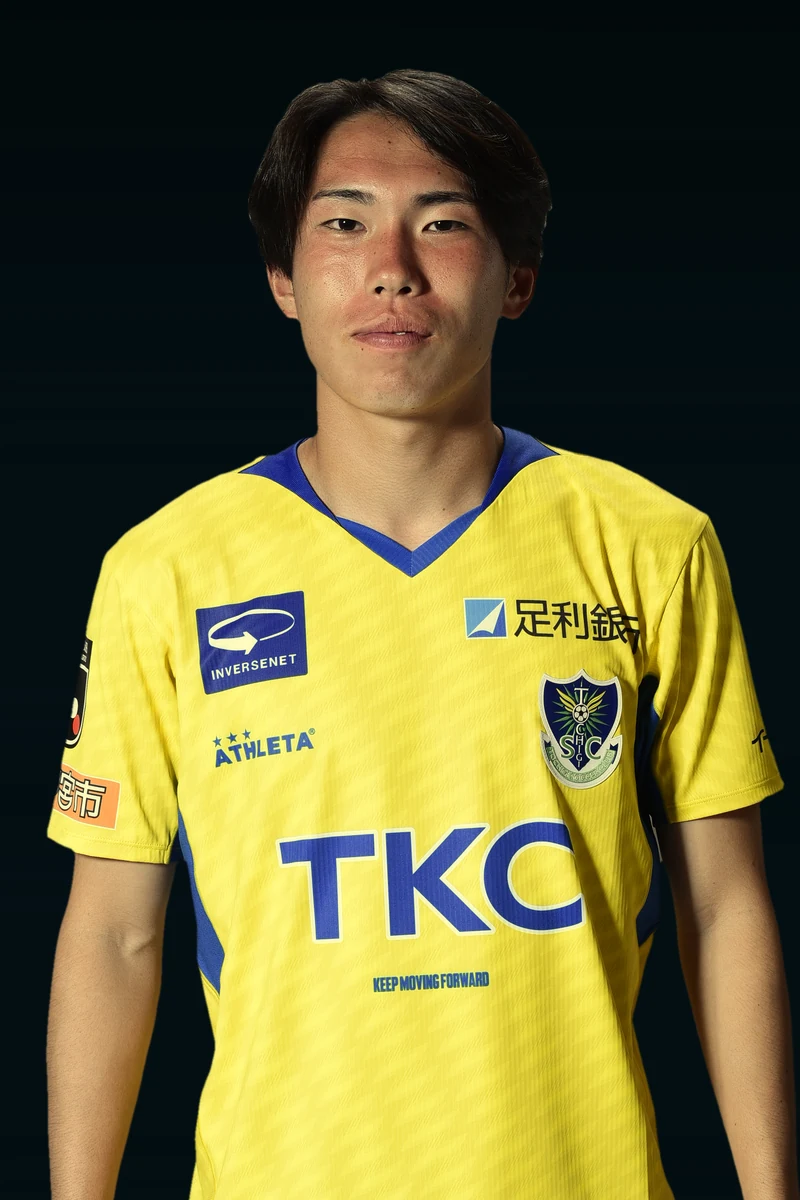
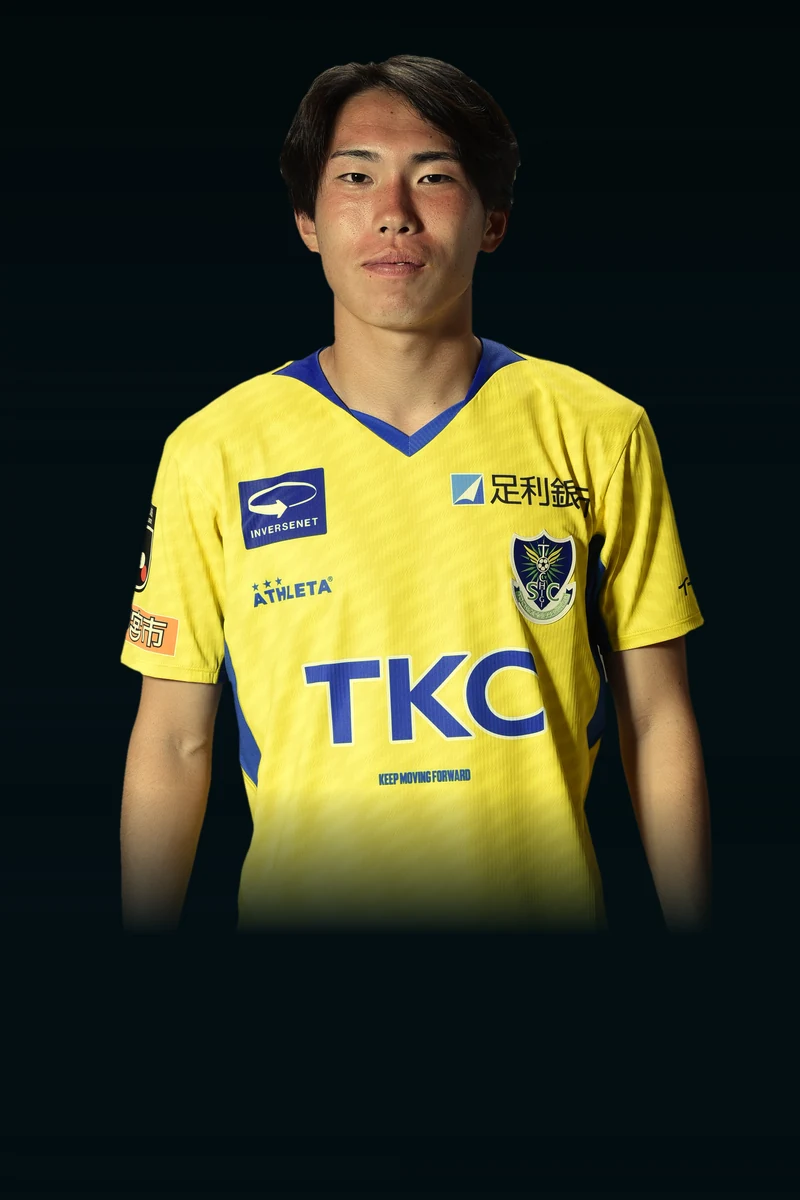
特別指定選手の写真を引きの構図に、見出しを日本語に
個人ページの写真: 他の選手は足元まで写った全身だが、櫻井選手の元写真は
太ももで切れており全身が存在しない。名前ボードの60px手前で切り、
少し引いた大きさ(78%)で置いて、切れた下端を背景の黒へフェードさせた。
寄りすぎを避けつつ、途中で切れている感じを目立たせない。

一覧の見出しを「SPECIAL」から「特別指定選手」に変更。
和文はAntonが使えないので本文書体で組み、副題を
「2026/27シーズン JFA・Ｊリーグ」とした。

diff --git a/index.html b/index.html
@@ -89,6 +89,8 @@ if(location.hostname.endsWith('github.io')){
   .sec-head .ja{font-size:clamp(10px,2.8vw,13px);color:var(--muted);letter-spacing:.22em}
   /* 特別指定選手: 見出しの日本語が長いので字間を詰める。カードは1枚なので幅を抑える */
   .sec-head.special{flex-wrap:wrap;gap:4px 10px}
+  .sec-head.special .en{font-family:'Hiragino Kaku Gothic ProN','Noto Sans JP',sans-serif;
+    font-weight:800;font-size:clamp(21px,5.6vw,32px);letter-spacing:.02em}
   .sec-head.special .ja{letter-spacing:.06em;line-height:1.5}
   #sec-SPECIAL .grid{grid-template-columns:repeat(2,1fr)}
   @media(min-width:700px){#sec-SPECIAL .grid{grid-template-columns:repeat(4,1fr)}}
@@ -377,13 +379,13 @@ const DATA = {
   ]
 };
 const SEC_JA = {GK:"ゴールキーパー", DF:"ディフェンダー", MF:"ミッドフィールダー", FW:"フォワード",
-                SPECIAL:"2026/27シーズン JFA・Ｊリーグ特別指定選手", STAFF:"スタッフ"};
+                SPECIAL:"2026/27シーズン JFA・Ｊリーグ", STAFF:"スタッフ"};
 const app=document.getElementById("app");
 for(const [sec,players] of Object.entries(DATA)){
   const s=document.createElement("section");
   s.id="sec-"+sec;
   var isSp = sec==="SPECIAL";
-  s.innerHTML=`<div class="sec-head${isSp?" special":""}"><span class="en">${isSp?"SPECIAL":sec}</span><span class="ja">${SEC_JA[sec]}</span></div>`;
+  s.innerHTML=`<div class="sec-head${isSp?" special":""}"><span class="en">${isSp?"特別指定選手":sec}</span><span class="ja">${SEC_JA[sec]}</span></div>`;
   const g=document.createElement("div"); g.className="grid";
   for(const p of players){
     if(sec==="STAFF"){
